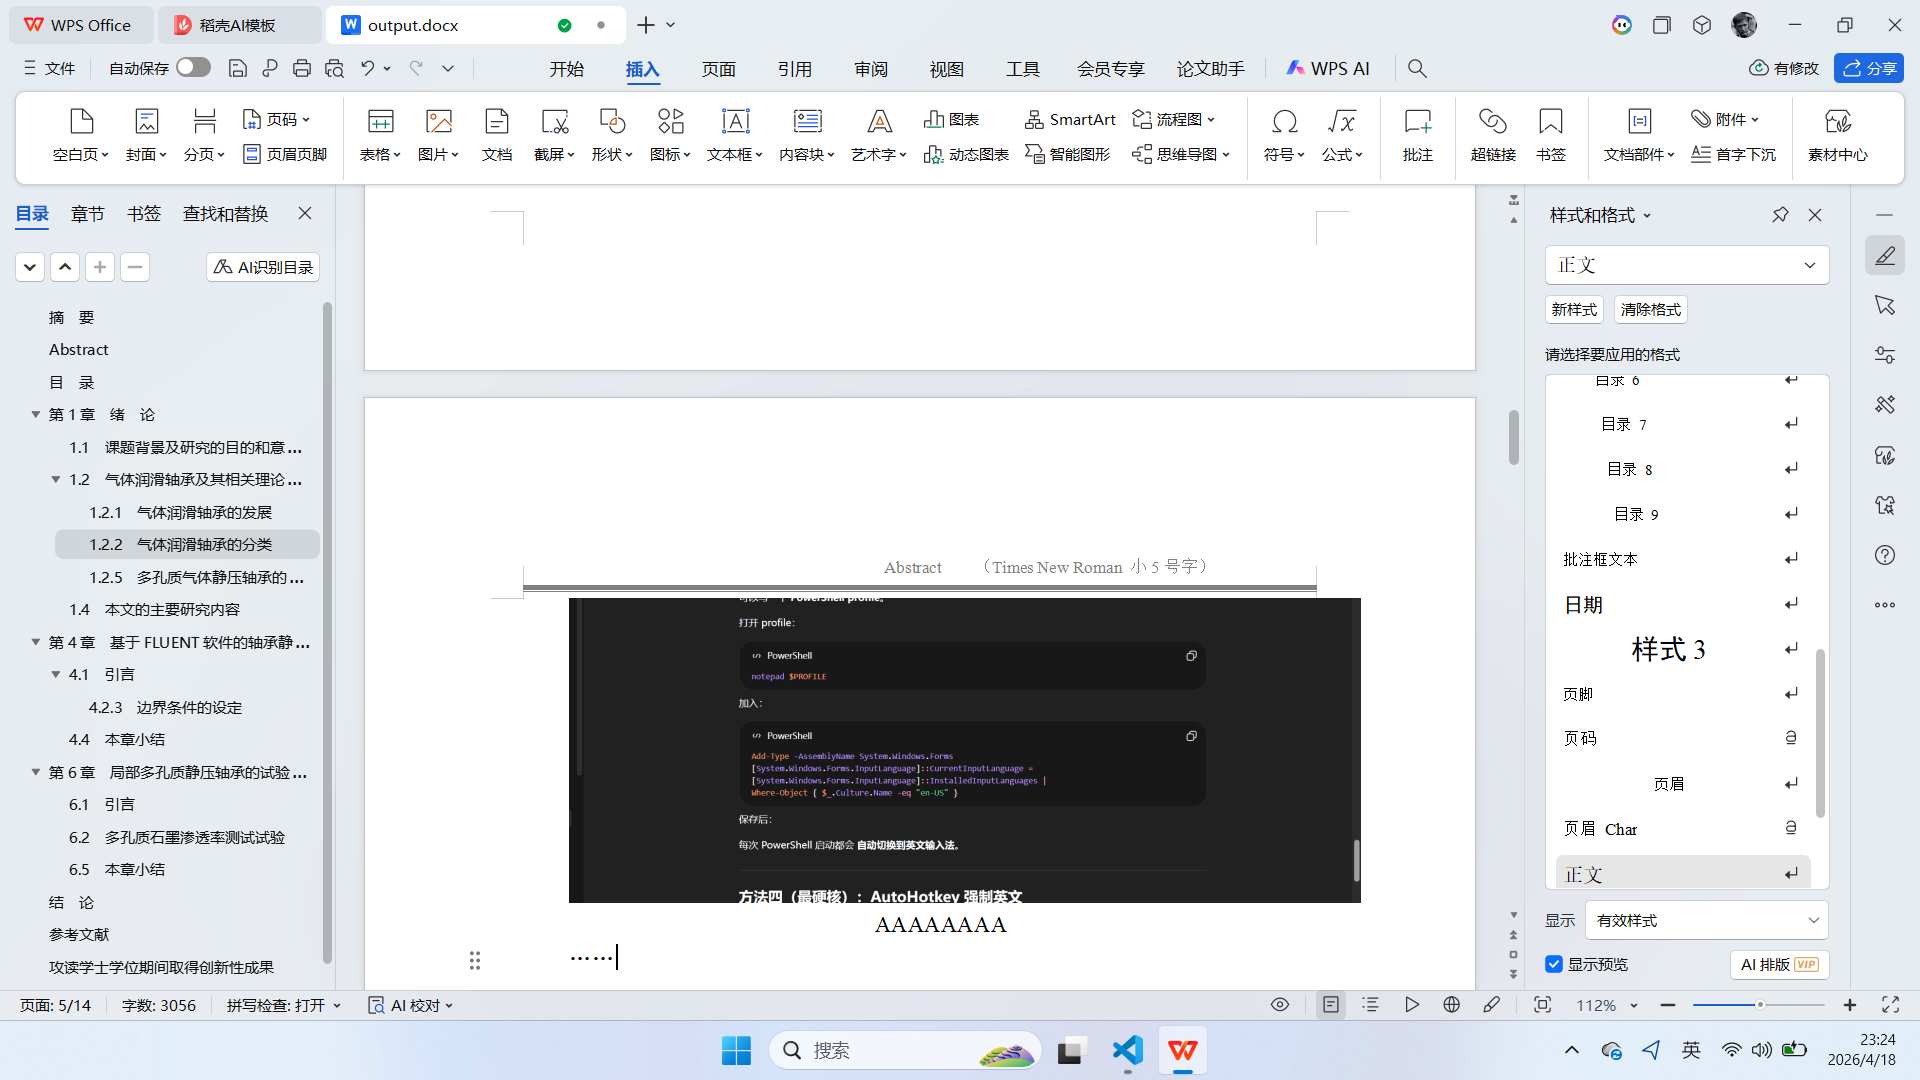
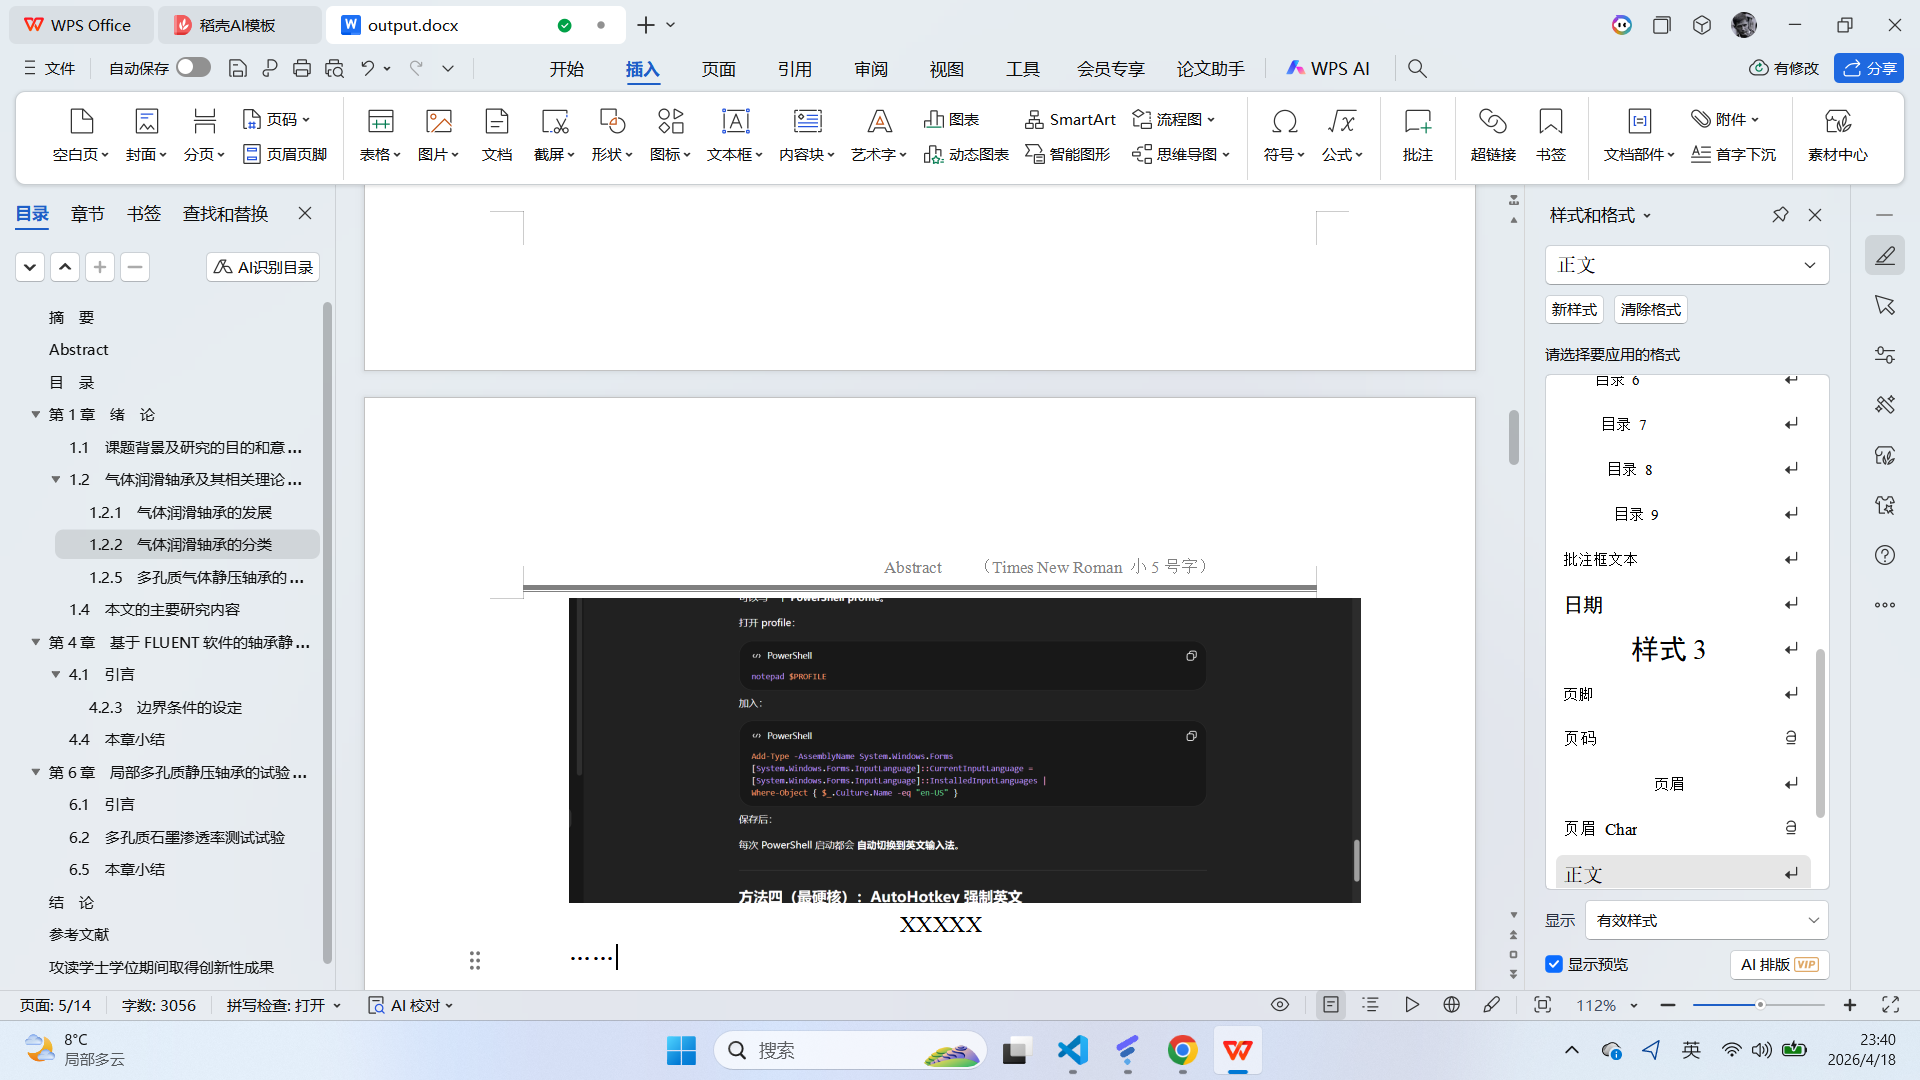
ocr could find XXXXX

diff --git a/docx_manager/wps_ui/wps_nav.py b/docx_manager/wps_ui/wps_nav.py
@@ -155,7 +155,7 @@ def _get_ocr_reader():
         import easyocr
         if OCR_MODEL_DIR:
             _patch_easyocr_md5()
-        kwargs: dict = dict(gpu=False, verbose=False)
+        kwargs: dict = dict(gpu=True, verbose=False)
         if OCR_MODEL_DIR:
             kwargs['model_storage_directory'] = OCR_MODEL_DIR
             kwargs['download_enabled'] = False

diff --git a/docx_manager/wps_ui/workflows/insert_image.py b/docx_manager/wps_ui/workflows/insert_image.py
@@ -12,7 +12,7 @@ Layer 3 — 图片排版工作流。
 from .. import wps_nav as W
 from .. import primitives as P
 
-_MARKER = "AAAAAAAA"
+_MARKER = "XXXXX"
 
 
 def _locate_caption_line(caption: str, offset_up: int = 40) -> tuple[int, int]:
